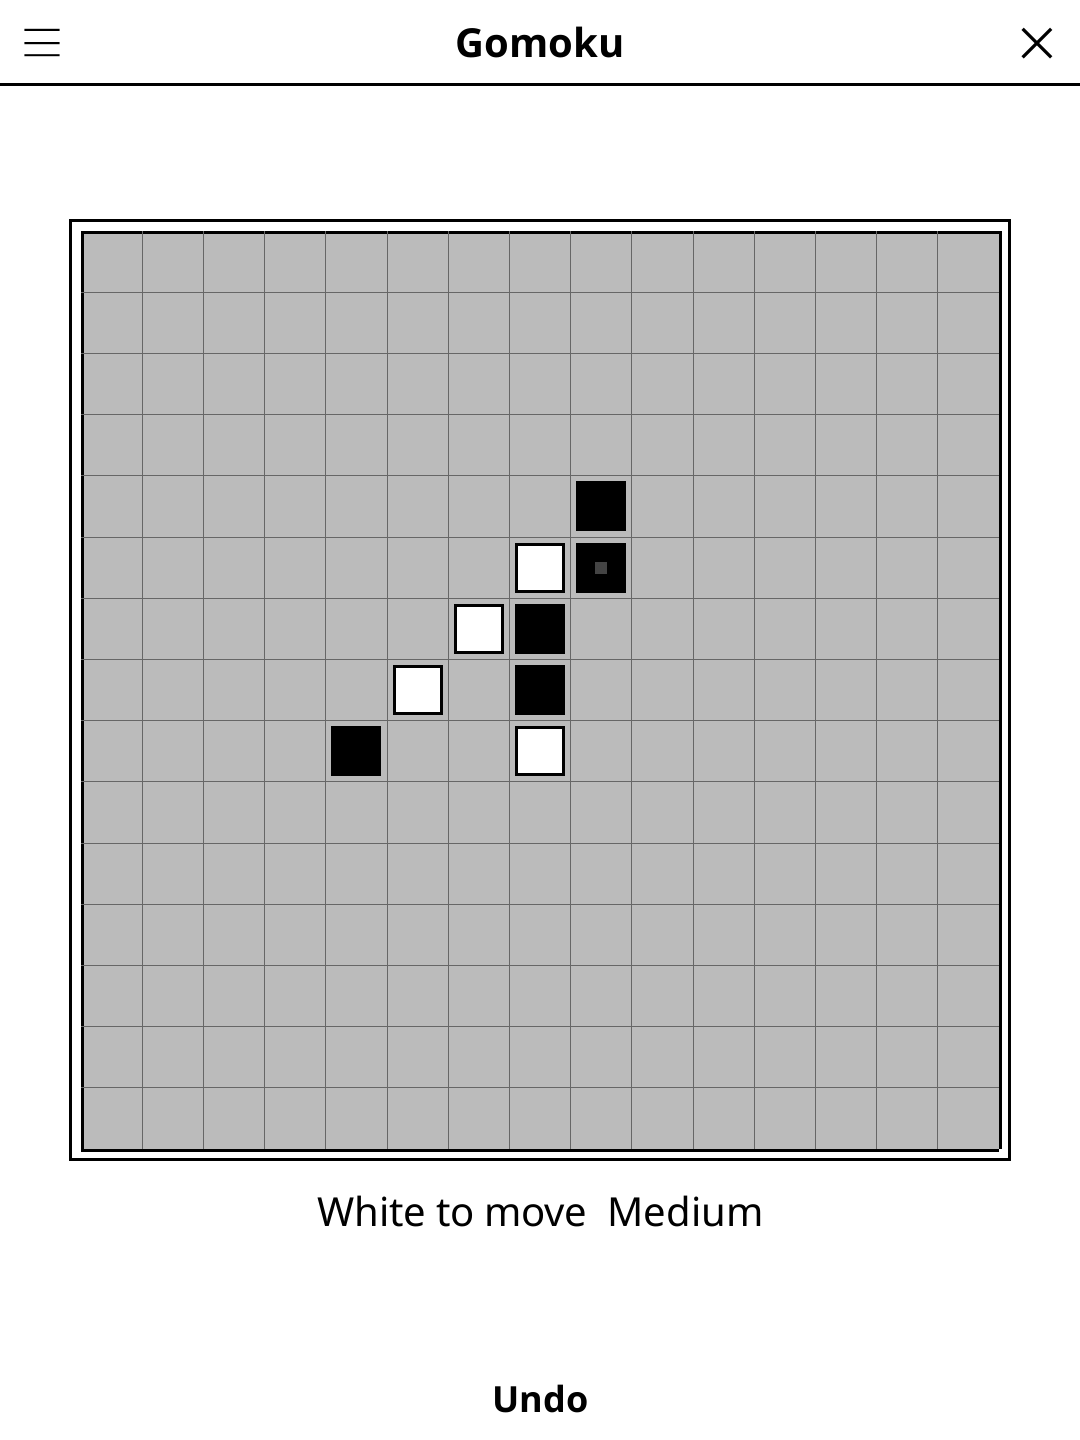
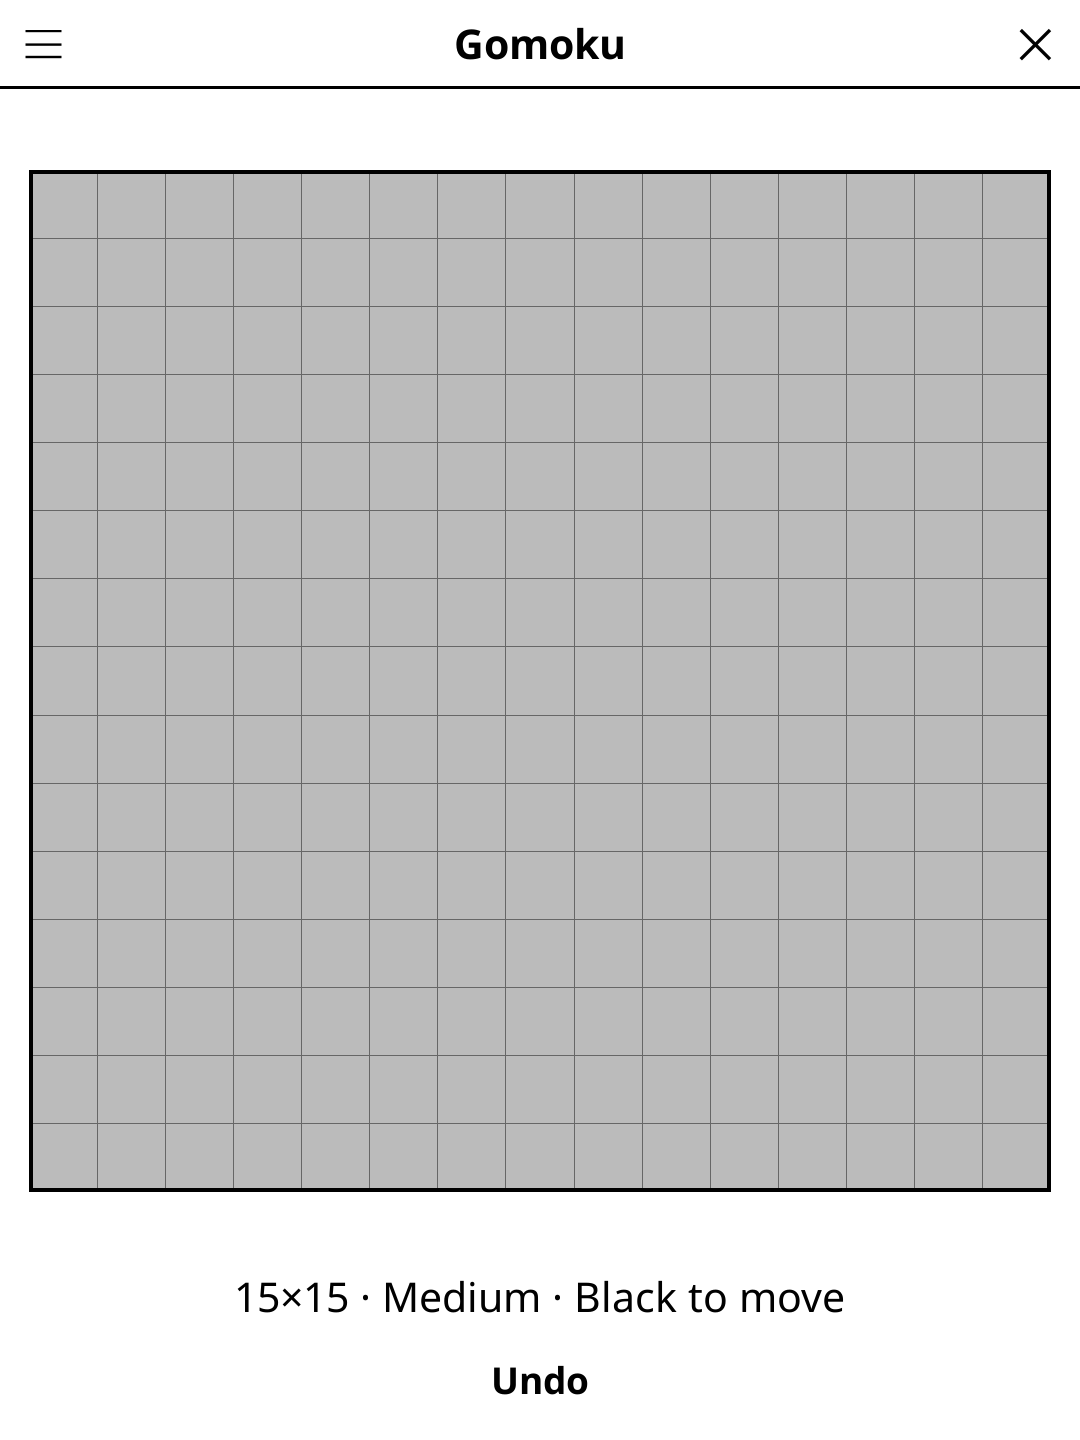
release: 1.3.0 -- redesigned screen, harmonised menu, New game at round end
Screen redesign (full-width action bar, unified pad, status line, larger
board), harmonised title-bar menu, and a "New game" button once the round
is over. See CHANGELOG.md.

diff --git a/CHANGELOG.md b/CHANGELOG.md
@@ -2,6 +2,28 @@
 
 All notable changes to this project will be documented in this file.
 
+## [1.3.0] - 2026-10-30
+
+### Added
+- "New game" once the game is over (five in a row or a full board): the
+  action bar shows it in place of Undo, so the next game no longer needs the
+  menu.
+
+### Changed
+- Redesigned play screen, in line with the other games: a full-width action
+  bar, a larger board that fills the available room, and one frame around
+  it. The status line reads "15×15 · difficulty · Black to move" and wraps in
+  landscape instead of being cut off.
+- Title-bar menu in the same order as every other game, with the current
+  values shown: New game (was "New"), "Difficulty: Medium", "Players: 1"
+  (was "1 player"), Rules.
+- New README screenshot.
+
+### Fixed
+- The thick board border was notched wherever a grid line crossed it, and
+  its right and bottom edges spilled just past the board. The border is now
+  drawn last, inside the board.
+
 ## [1.2.2] - 2026-10-02
 
 ### Fixed

diff --git a/README.md b/README.md
@@ -27,8 +27,8 @@ diagonally — wins.
 |--------|-----|
 | Place a stone | Tap a cell |
 | Undo last move | Tap **Annuler** |
-| New game | Tap **Nouveau** |
-| Switch players mode | Tap **1 joueur** / **2 joueurs** |
+| New game | Tap **Nouvelle partie** |
+| Switch players mode | Tap **Joueurs : 1** / **Joueurs : 2** |
 | Change difficulty | Tap difficulty button |
 | Show rules | Tap **Règles** |
 
